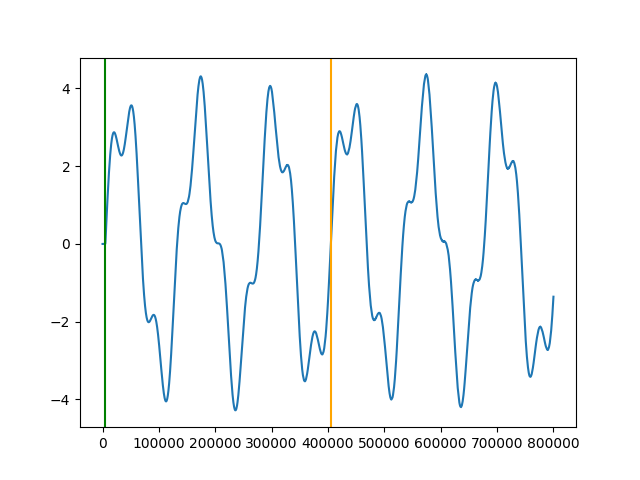
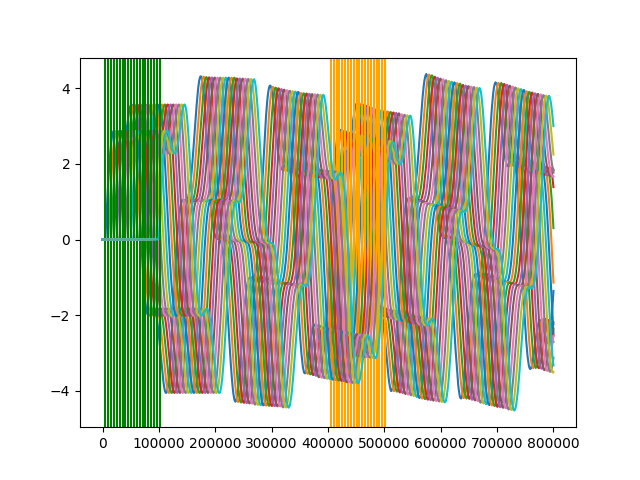
Checked the extent of damping in nrb, freqmix simulations

diff --git a/common_files/multi_detec_mix.py b/common_files/multi_detec_mix.py
@@ -57,7 +57,7 @@ T_fgcd = 1000/freq_fgcd
 """Least common multiple of the wave cycles T1 and T2 [ps]. Represents the wave cycle of f_gcd."""
 
 data_raw_cols = data_raw.shape[1]
-detecs_num = data_raw_cols - non_detec_cols
+detecs_num = 21
 # In most cases, data_raw[:,0] is time, data_raw[:,1] is source, data_raw[:,<last column>] is backend.
 
 time = data_raw[:, 0]
@@ -70,7 +70,7 @@ if (int(time[-1]/timestep) != len(time)-1):
     sys.exit()
 x_source = data_raw[:, 1]
 x_detecs_array = data_raw[:, 2:2+detecs_num]
-x_end = data_raw[:, -1]
+x_end = data_raw[:, 2+detecs_num]
 # In most cases, data_raw[:,0] is time, data_raw[:,1] is source, data_raw[:,<last column>] is backend.
 a_f1_at_detecs = np.zeros(detecs_num)
 """[m]"""

diff --git a/common_files/multi_detec_nrb_mix.py b/common_files/multi_detec_nrb_mix.py
@@ -57,7 +57,7 @@ T_fgcd = 1000/freq_fgcd
 """Least common multiple of the wave cycles T1 and T2 [ps]. Represents the wave cycle of f_gcd."""
 
 data_raw_cols = data_raw.shape[1]
-detecs_num = 1
+detecs_num = 20
 # In most cases, data_raw[:,0] is time, data_raw[:,1] is source, data_raw[:,<last column>] is backend.
 
 time = data_raw[:, 0]
